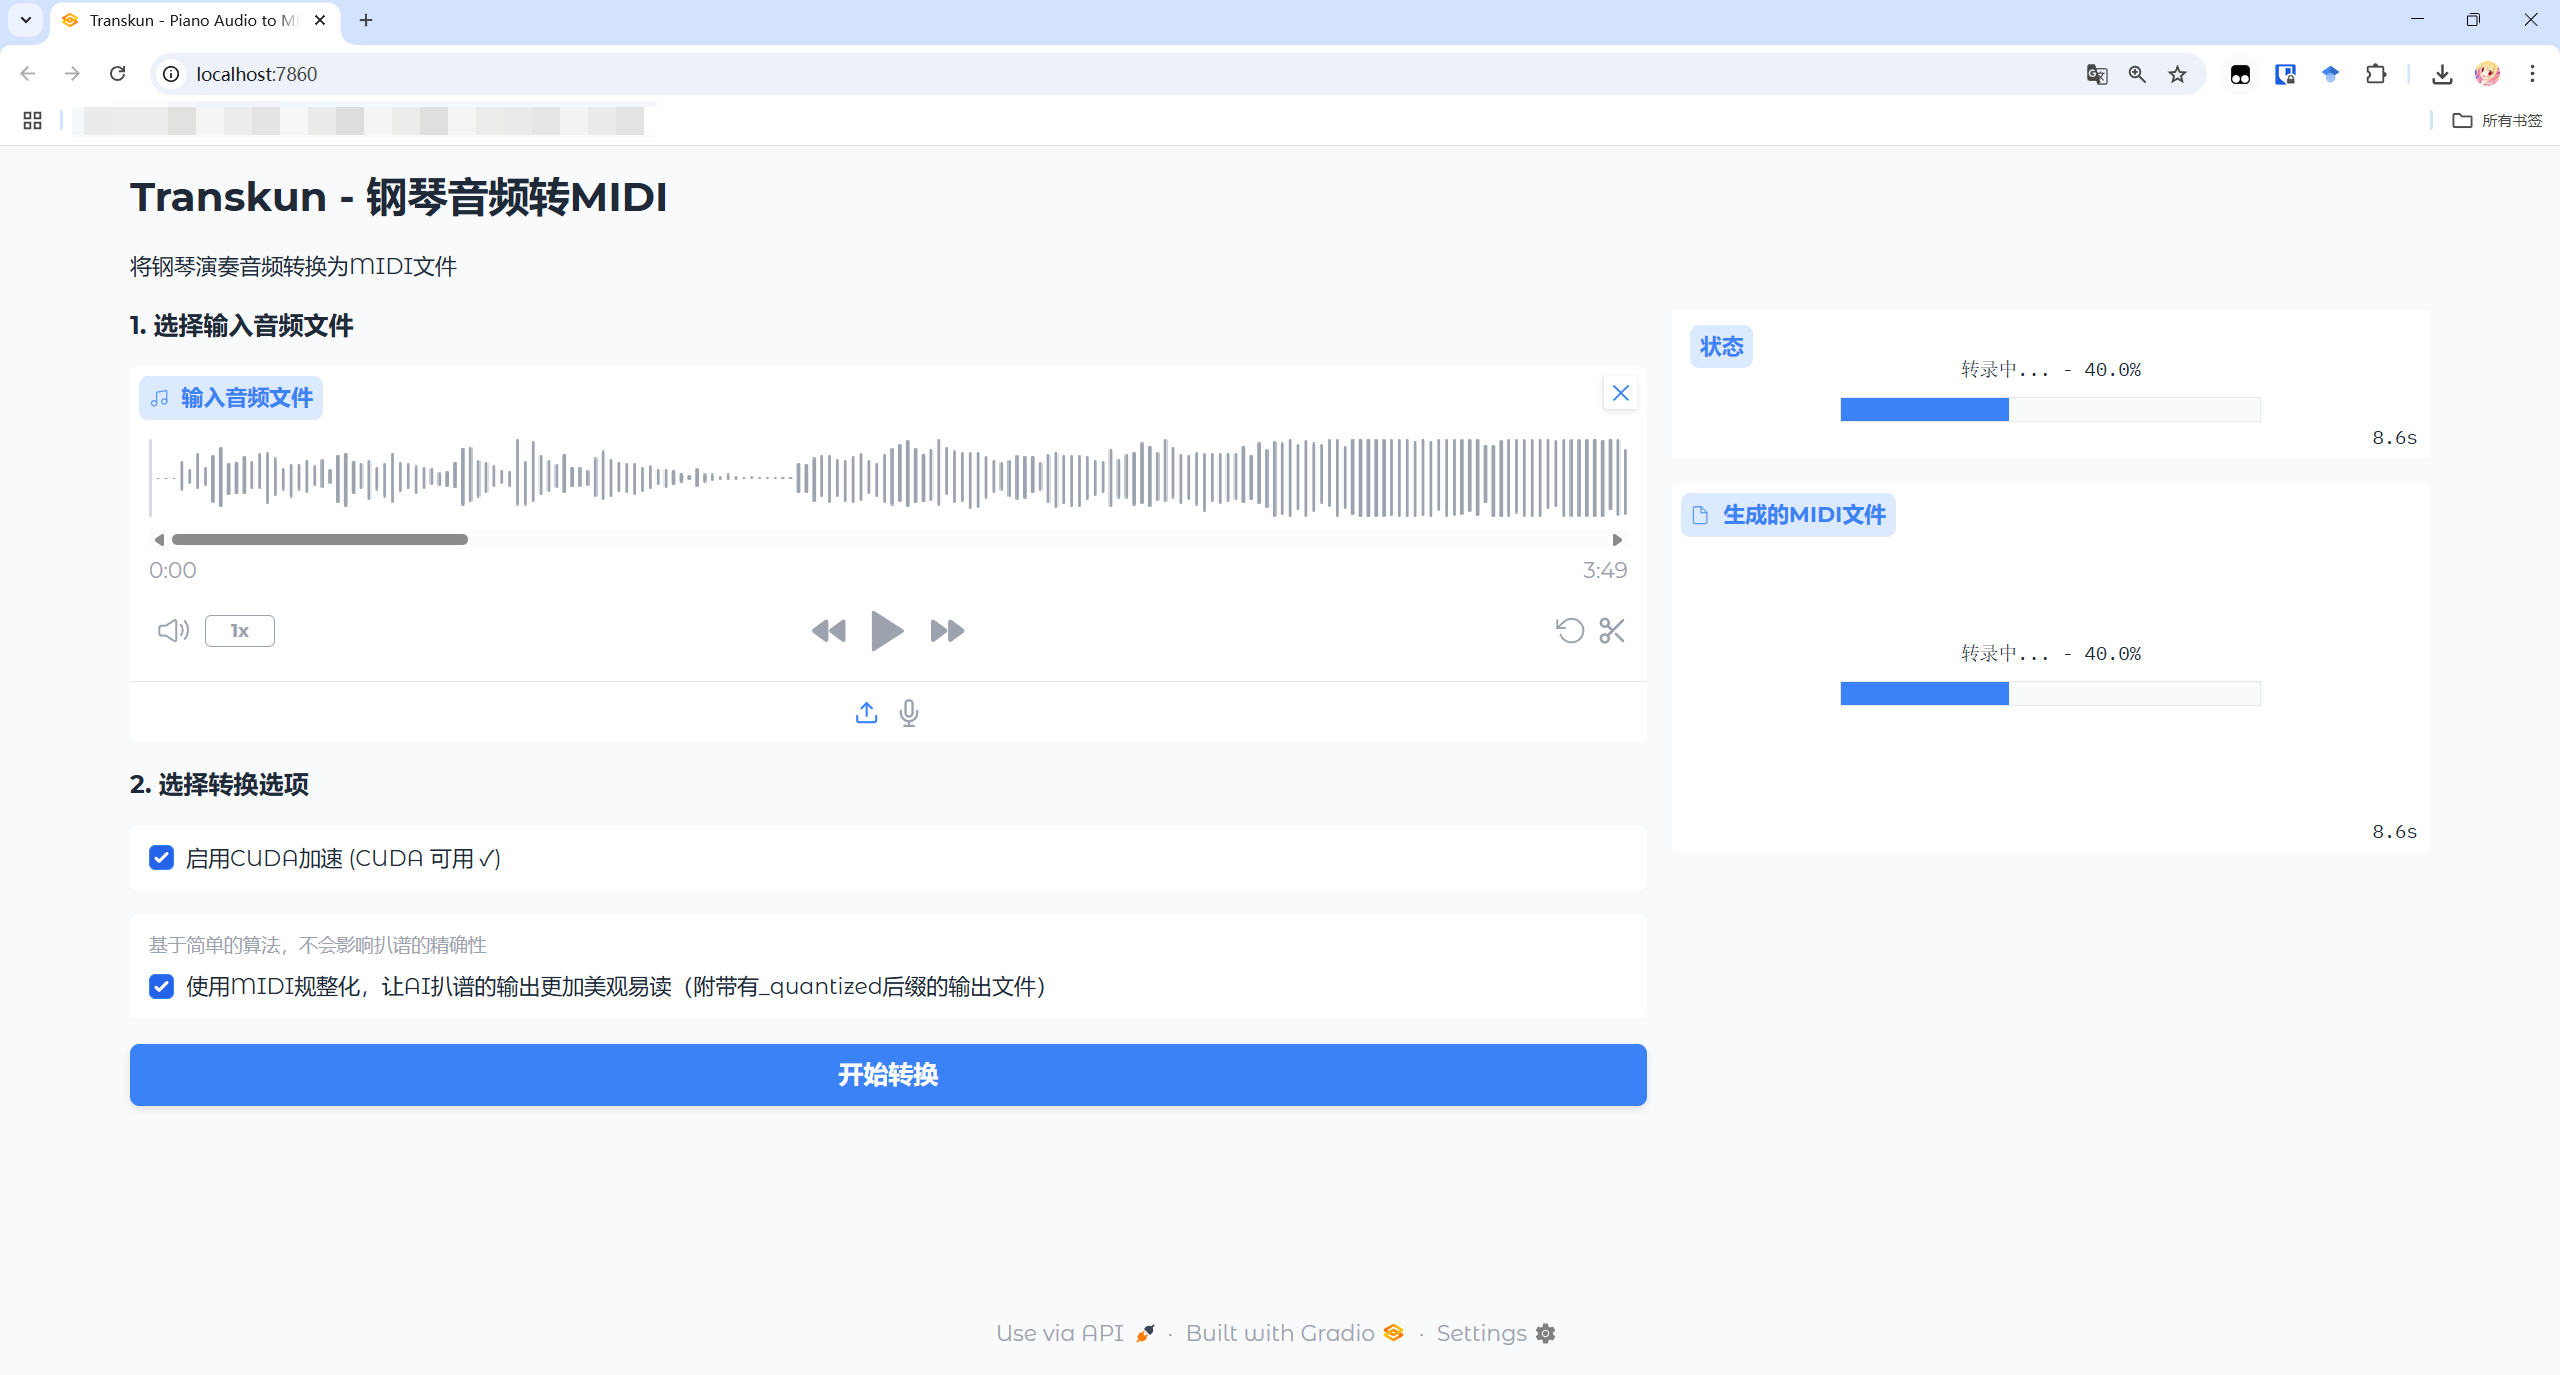
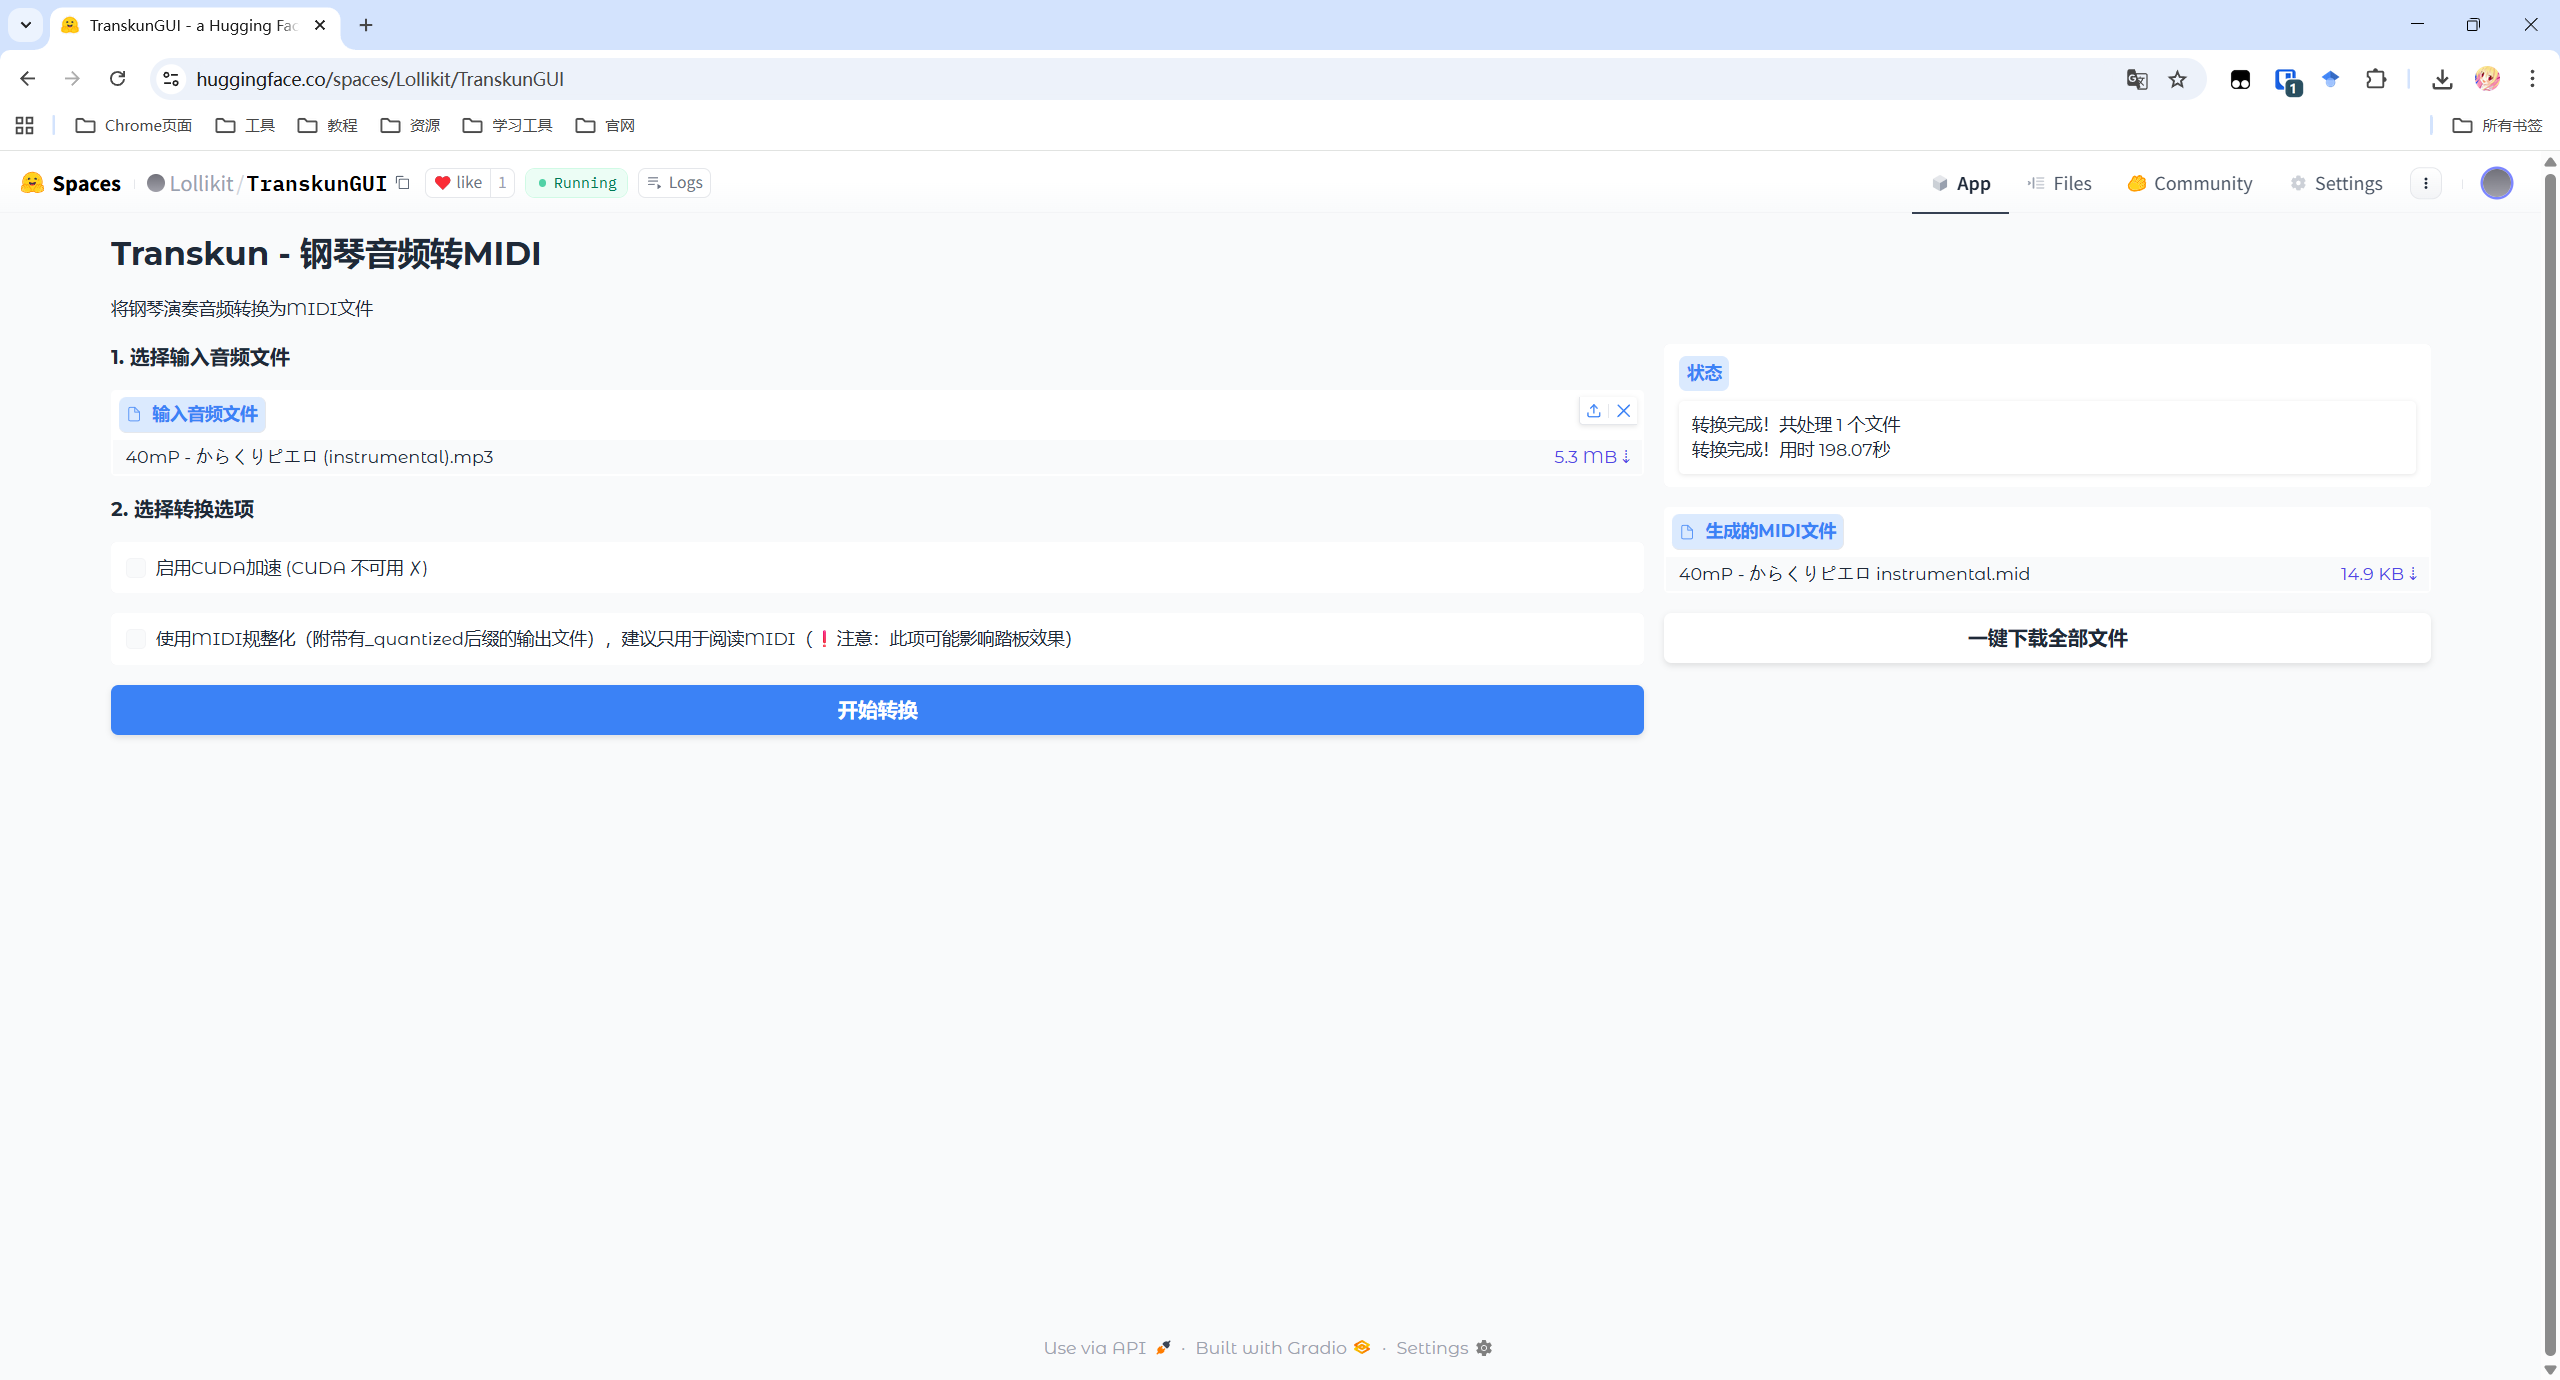
huggingface demo update

diff --git a/README.md b/README.md
@@ -2,13 +2,17 @@
 
 ## Demo
 
+提供Huggingface Space试用版本：[Huggingface Space](https://huggingface.co/spaces/Lollikit/TranskunGUI) 即可体验。（由于使用免费的CPU，速度可能稍慢）
+
+A new Huggingface Demo is available! Try it with [Huggingface Space](https://huggingface.co/spaces/Lollikit/TranskunGUI)! (Using free CPU, may be slow)
+
 ![TranskunGUI Demo](assets/image.png)
 
 ## Usage
 
 预计我会持续维护这个项目，如果有问题欢迎通过Bilibili联系我。如果对您有帮助，希望能够给一个小小的Star！
 
-请访问 [Release 页面](https://github.com/natsunoshion/TranskunGUI/releases)下载最新版本。
+请访问 [Release 页面](https://github.com/natsunoshion/TranskunGUI/releases) 下载最新版本。
 
 Please visit the [Release page](https://github.com/natsunoshion/TranskunGUI/releases) to download the latest version.
 
@@ -38,4 +42,4 @@ Using this GUI, you can transcribe piano recordings into MIDI files with an intu
 
 ## Building from Source
 
-For building from source, please refer to the instructions in [Pyinstaller](https://pyinstaller.org/en/stable/).
+For building from source, please refer to the instructions in [Pyinstaller](https://pyinstaller.org/en/stable/). Use `TranskunGUI.spec` in this repository.
